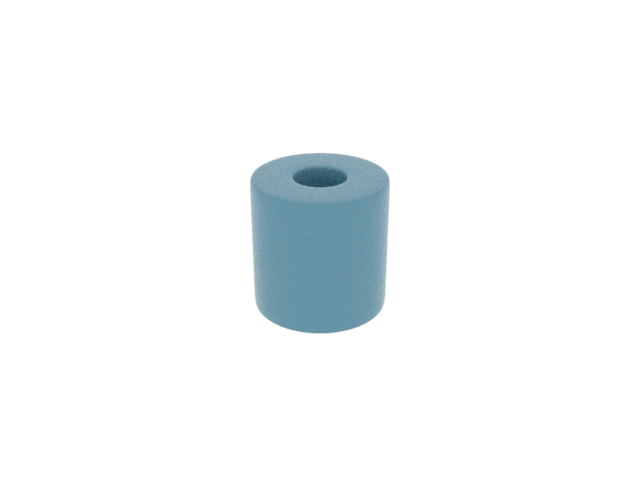
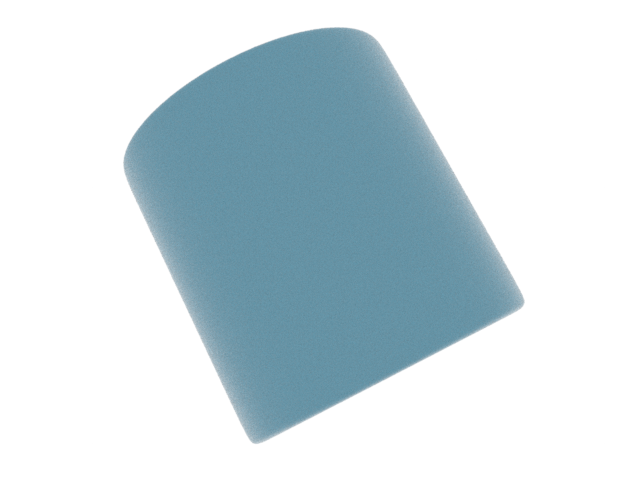
more examples

Changed region(s): [[0.1875, 0.0312, 0.8438, 0.9375]]

diff --git a/util.py b/util.py
@@ -18,11 +18,12 @@ objects = []
 
 def load_sensor(r, phi, theta):
     center = find_center_of_bounding_box()[0]
+    
     return mitsuba.load_dict({
         'type': 'perspective',
         'fov': 45,
         #'to_world': T.look_at(origin=[math.cos(math.radians(phi)), r, math.sin(math.radians(phi))], target=[0,0,0], up=[0, r, 0]),
-        'to_world': T.look_at(origin=[center[0], center[1]-20, center[2]+10], target=center, up=[0, 0, r]),
+        'to_world': T.look_at(origin=[math.cos(math.radians(phi)), r, math.sin(math.radians(phi))], target=center, up=[0, r, 0]),
         'sampler': {
             'type': 'multijitter',
             'sample_count': 16
@@ -121,7 +122,7 @@ def find_center_of_bounding_box():
     return center, [size_x, size_y, size_z]
 
 def create_image(scene):
-  sensor = load_sensor(0.1, 270, 160)
+  sensor = load_sensor(10, 1, 160)
   mitsuba_image = mitsuba.render(scene, spp=16, sensor=sensor)
 
   mitsuba.util.write_bitmap("result.png", mitsuba_image)
